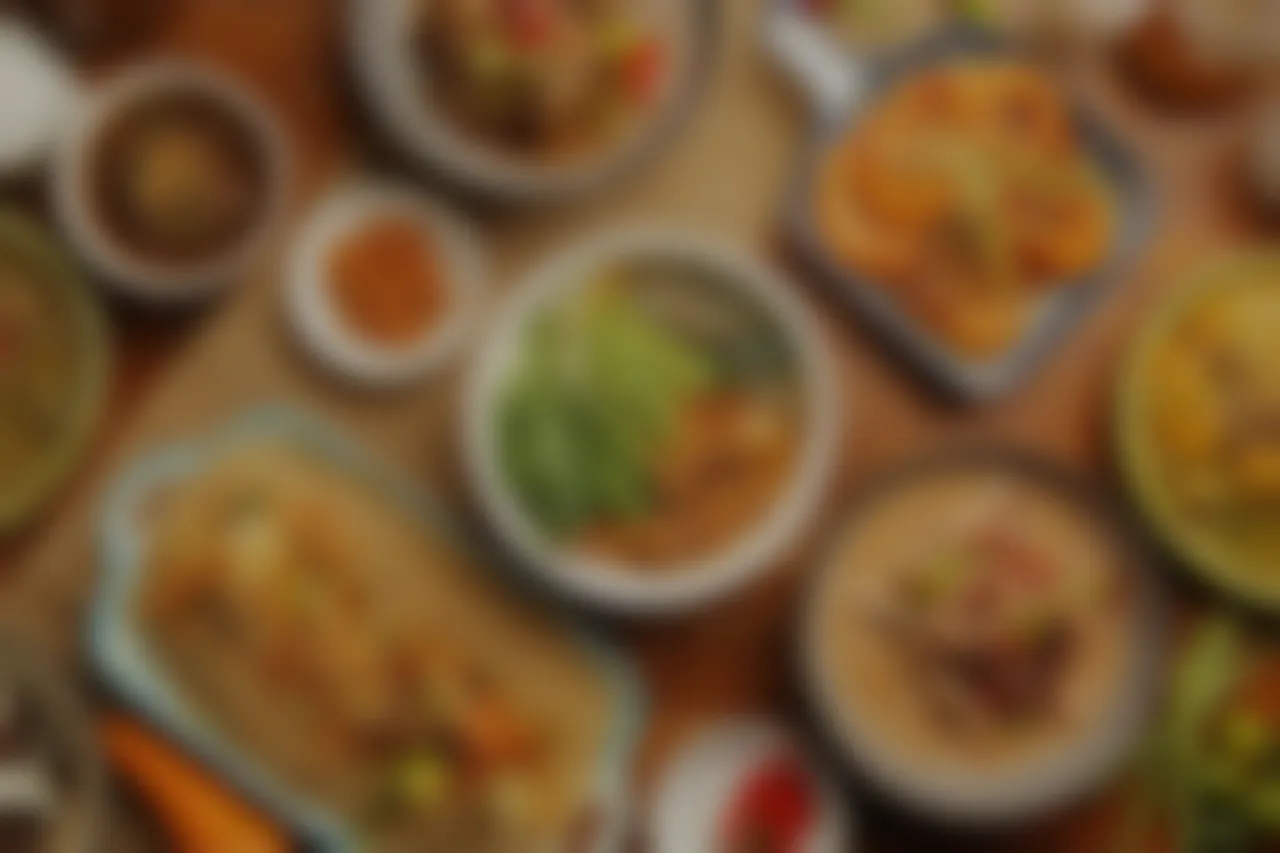
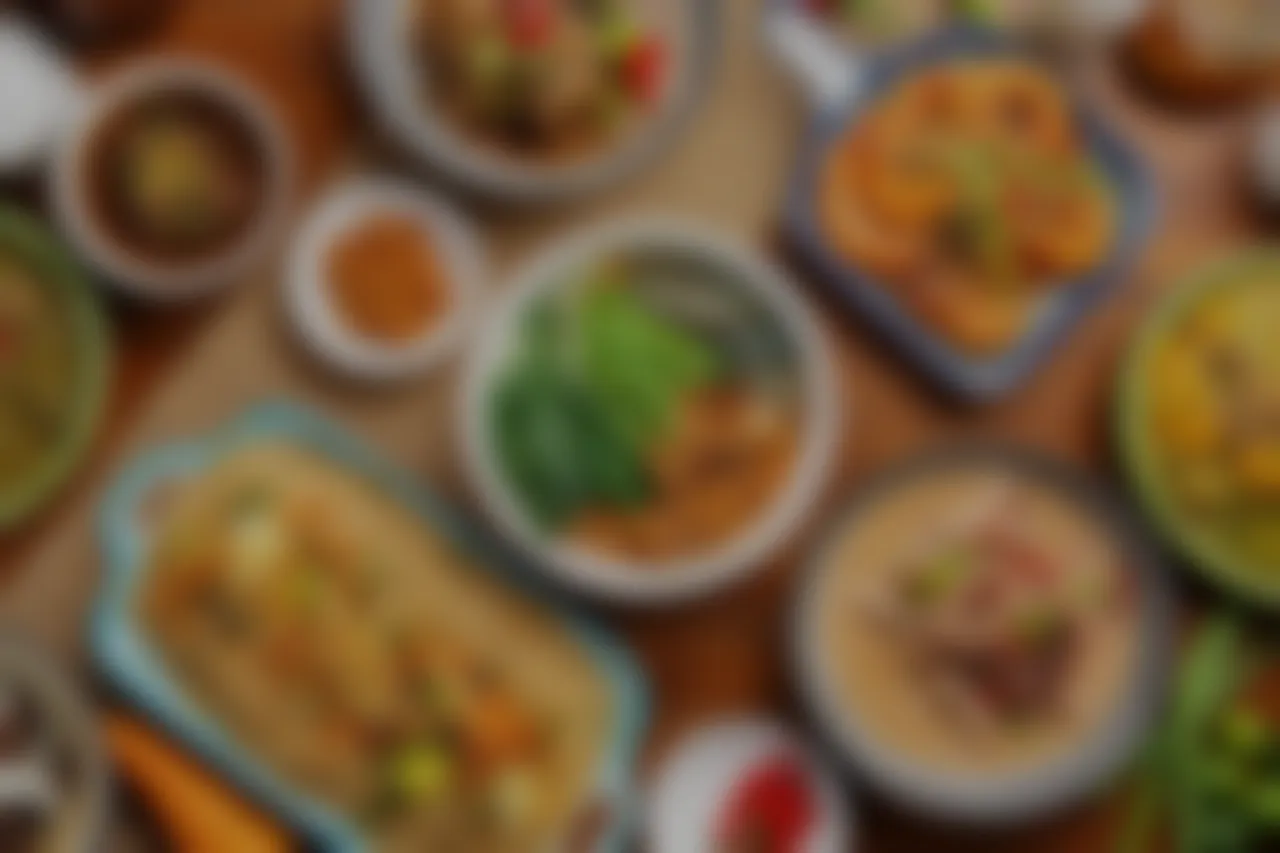
Website v3: clean title outlines, maps, real mandalas, sharper hero
- Title outline is now a ring of text-shadows. -webkit-text-stroke traced
  the variable font's overlapping contours, drawing lines inside letters
  like the Y.
- Nav dropdown items no longer get the gold "active" underline.
- Hero uses the 1536px food spread (upscaled to 2560 with a light
  sharpen, faint paisley baked in); the Restaurant page shows the same
  photo instead of the emoji tile.
- Beige OpenStreetMap view with a pin on the Restaurant page ("Come
  visit") and as the wide panel in Our place. Tiles are plain <img>s laid
  out by tpn-home.js, no map library; the pin follows coordinates in the
  site's map link when it has them. CSP img-src gains
  https://tile.openstreetmap.org for the tiles.
- The drawn mandalas are replaced by two supplied gold mandalas, used
  only as faint, slowly turning background elements.

diff --git a/tpn-site-v3.css b/tpn-site-v3.css
@@ -52,6 +52,9 @@ body::after { display: none; }                               /* old mesh glow */
 #mainNav .nav-links a, #mainNav .nav-group > button { font-size: 14px; text-transform: none; letter-spacing: 0; color: var(--v3-ink-2); font-family: var(--v3-ui); }
 #mainNav .nav-links a.active, #mainNav .nav-links a:hover { color: var(--v3-ink); }
 #mainNav .nav-links a.active::after { background: var(--v3-saffron); bottom: -6px; }
+#mainNav .nav-drop a::after { display: none !important; }
+#mainNav .nav-drop a { border: 0 !important; box-shadow: none !important; }
+#mainNav .nav-drop a + a { margin-top: 2px; }
 #mainNav .cart-btn { border-radius: 999px; background: var(--v3-card); border-color: var(--v3-hair); font-weight: 600; padding: 7px 7px 7px 14px; }
 #mainNav .cart-count { background: var(--v3-accent); border-radius: 999px; min-width: 22px; height: 22px; display: inline-grid; place-items: center; }
 #mainNav .nav-lang { display: inline-flex; gap: 2px; padding: 3px; border-radius: 999px; background: var(--v3-paper-2); box-shadow: inset 0 0 0 1px var(--v3-hair); }
@@ -81,8 +84,18 @@ body::after { display: none; }                               /* old mesh glow */
 .v3-bleed .t { display: block; font-family: var(--v3-display); font-weight: 900; font-variation-settings: "SOFT" 100, "WONK" 0, "opsz" 144;
   line-height: 1.06; letter-spacing: .03em; word-spacing: .12em; white-space: nowrap; color: var(--v3-saffron); }
 .v3-bleed .t i { font-style: italic; font-weight: 800; letter-spacing: .035em; }
-.v3-bleed .solid .t { -webkit-text-stroke: var(--stroke, 2.5px) var(--v3-cocoa); paint-order: stroke fill;
-  text-shadow: 0 .02em 0 var(--v3-cocoa), 0 .1em .3em rgba(58,29,16,.14); }
+.v3-bleed { --s: var(--stroke, 2.5px); --c: var(--v3-cocoa); }
+/* outline = a 16-step ring of hard shadows (text-stroke drew the variable
+   font's overlapping contours inside the letters) */
+.v3-bleed .solid .t { text-shadow:
+  var(--s) 0 0 var(--c), calc(var(--s) * -1) 0 0 var(--c), 0 var(--s) 0 var(--c), 0 calc(var(--s) * -1) 0 var(--c),
+  calc(var(--s) * .707) calc(var(--s) * .707) 0 var(--c), calc(var(--s) * -.707) calc(var(--s) * .707) 0 var(--c),
+  calc(var(--s) * .707) calc(var(--s) * -.707) 0 var(--c), calc(var(--s) * -.707) calc(var(--s) * -.707) 0 var(--c),
+  calc(var(--s) * .924) calc(var(--s) * .383) 0 var(--c), calc(var(--s) * -.924) calc(var(--s) * .383) 0 var(--c),
+  calc(var(--s) * .924) calc(var(--s) * -.383) 0 var(--c), calc(var(--s) * -.924) calc(var(--s) * -.383) 0 var(--c),
+  calc(var(--s) * .383) calc(var(--s) * .924) 0 var(--c), calc(var(--s) * -.383) calc(var(--s) * .924) 0 var(--c),
+  calc(var(--s) * .383) calc(var(--s) * -.924) 0 var(--c), calc(var(--s) * -.383) calc(var(--s) * -.924) 0 var(--c),
+  0 calc(var(--s) + .03em) 0 var(--c), 0 .1em .3em rgba(58,29,16,.18); }
 .v3-bleed .engrave {
   background: url(assets/site/paisley-engrave.webp) var(--ox, 0px) var(--oy, 0px) / var(--bg-size) repeat;
   -webkit-background-clip: text; background-clip: text;
@@ -90,7 +103,7 @@ body::after { display: none; }                               /* old mesh glow */
        radial-gradient(circle at var(--h2x, -999px) var(--h2y, 0px), #000 0 var(--r2), transparent calc(var(--r2) * 1.7));
   -webkit-mask: var(--m); mask: var(--m);
 }
-.v3-bleed .engrave .t { color: transparent; -webkit-text-stroke: var(--stroke, 2.5px) var(--v3-cocoa); }
+.v3-bleed .engrave .t { color: transparent; }
 
 /* ─────────────── BUTTONS ─────────────── */
 .v3-btn { display: inline-flex; align-items: center; gap: 12px; border-radius: 999px; padding: 8px 8px 8px 22px; font: 600 15px var(--v3-ui); white-space: nowrap; cursor: pointer;
@@ -186,12 +199,45 @@ body::after { display: none; }                               /* old mesh glow */
 .v3-photo .ph svg { width: 34px; height: 34px; }
 .v3-photo:not(.empty) .ph { display: none; }
 .v3-gallery { display: grid; grid-template-columns: 1.35fr 1fr 1fr; grid-template-rows: 280px 280px; gap: 14px; }
-.v3-gallery .v3-photo:nth-child(1) { grid-row: span 2; }
-.v3-gallery .v3-photo:nth-child(4) { grid-column: span 2; }
+.v3-gallery > :nth-child(1) { grid-row: span 2; }
+.v3-gallery > :nth-child(4) { grid-column: span 2; }
 
 .v3-thanks { text-align: center; padding-block: clamp(80px, 10vw, 140px); border-top: 1px solid var(--v3-hair); }
 .v3-thanks .v3-bleed { --stroke: clamp(2px, .2vw, 3px); }
 .v3-thanks .v3-bleed .t { font-size: clamp(60px, 10.5vw, 180px); }
+
+/* background mandalas (decoration only: behind content, never clickable) */
+.v3-bgwrap { position: relative; isolation: isolate; overflow: hidden; }
+.v3-mandala { position: absolute; z-index: -1; pointer-events: none; opacity: var(--mo, .14); width: var(--mw, 620px); aspect-ratio: 1; }
+.v3-mandala img { width: 100%; height: 100%; display: block; will-change: transform; }
+.v3-hero .v3-mandala { inset: 0; margin: auto; --mw: min(108vh, 980px, 140vw); --mo: .2; }
+.v3-best .v3-mandala { right: -240px; top: -80px; --mo: .2; }
+#v3Place .v3-mandala { left: -280px; top: 40px; --mo: .12; }
+.v3-thanks .v3-mandala { inset: 0; margin: auto; --mw: min(70vw, 760px); --mo: .16; }
+#page-menu { position: relative; overflow-x: clip; }
+#page-menu > .v3-mandala { right: -220px; top: 40px; --mo: .12; z-index: 0; }
+#page-menu > :not(.v3-mandala) { position: relative; z-index: 1; }
+
+/* map: OpenStreetMap tiles laid out by tpn-home.js, warmed to beige and darkened a touch */
+.v3-map { position: relative; overflow: hidden; isolation: isolate; border-radius: 22px; min-height: 220px; background: #e9dcc4; cursor: pointer; }
+.v3-map .tiles { position: absolute; inset: 0; filter: grayscale(.35) sepia(.6) saturate(.7) brightness(.88) contrast(.92) hue-rotate(-8deg); }
+.v3-map .tiles img { position: absolute; width: 256px; height: 256px; max-width: none; user-select: none; -webkit-user-drag: none; }
+.v3-map::after { content: ""; position: absolute; inset: 0; pointer-events: none; z-index: 1;
+  background: radial-gradient(ellipse 80% 75% at 50% 45%, transparent 45%, rgba(46,20,8,.4) 100%); box-shadow: inset 0 0 60px 6px rgba(46,20,8,.22); }
+.v3-map .pin { position: absolute; left: 50%; top: 50%; z-index: 2; width: 38px; height: 50px; transform: translate(-50%, -100%); color: var(--v3-accent); filter: drop-shadow(0 6px 8px rgba(46,20,8,.4)); }
+.v3-map .pin svg { width: 100%; height: 100%; display: block; }
+.v3-map .pin::after { content: ""; position: absolute; left: 50%; bottom: -6px; width: 18px; height: 8px; margin-left: -9px; border-radius: 50%; background: rgba(163,50,26,.35); animation: v3ping 2.2s var(--v3-ease) infinite; }
+@keyframes v3ping { 0% { transform: scale(.6); opacity: .9; } 100% { transform: scale(3.2); opacity: 0; } }
+.v3-map .card { position: absolute; z-index: 3; left: 16px; bottom: 16px; right: 16px; max-width: 380px; display: grid; gap: 4px; padding: 14px 16px; border-radius: 16px;
+  background: rgba(255,253,248,.94); box-shadow: 0 0 0 1px var(--v3-hair), var(--v3-shadow); text-align: left; }
+.v3-map .card b { font-family: var(--v3-display); font-size: 18px; font-variation-settings: "SOFT" 100; color: var(--v3-ink); }
+.v3-map .card span { font-size: 13px; color: var(--v3-ink-2); line-height: 1.45; }
+.v3-map .card a { font-size: 13px; font-weight: 600; color: var(--v3-accent); text-decoration: none; margin-top: 4px; }
+.v3-map .attr { position: absolute; z-index: 3; right: 8px; top: 8px; font-size: 10px; padding: 2px 6px; border-radius: 6px; background: rgba(255,253,248,.8); color: var(--v3-ink-2); }
+.v3-map .attr a { color: inherit; }
+.v3-locate .v3-map { min-height: 420px; }
+#page-restaurant .rest-feature-img.v3-photo { font-size: 0; min-height: 440px; border-radius: 28px; }
+#page-restaurant .rest-feature-img .rest-feature-badge { position: absolute; z-index: 3; top: 18px; left: 18px; font-size: 11px; }
 
 /* reveal */
 .v3-reveal { opacity: 0; transform: translateY(24px); transition: opacity .9s var(--v3-ease), transform .9s var(--v3-ease); transition-delay: calc(var(--i, 0) * 60ms); }
@@ -240,14 +286,16 @@ footer .footer-pay li { font-size: 12px; padding: 5px 10px; border-radius: 999px
 @media (max-width: 900px) {
   #page-menu .menu-controls { grid-template-columns: 1fr; }
   .v3-gallery { grid-template-columns: 1fr 1fr; grid-template-rows: 300px 220px 220px; }
-  .v3-gallery .v3-photo:nth-child(1) { grid-column: span 2; grid-row: auto; }
-  .v3-gallery .v3-photo:nth-child(4) { grid-column: span 2; }
+  .v3-gallery > :nth-child(1) { grid-column: span 2; grid-row: auto; }
+  .v3-gallery > :nth-child(4) { grid-column: span 2; }
 }
 @media (max-width: 600px) {
   .v3-bento { grid-template-columns: 1fr; }
   .v3-bento > :first-child { grid-column: auto; }
   .v3-gallery { grid-template-columns: 1fr; grid-template-rows: none; grid-auto-rows: 240px; }
-  .v3-gallery .v3-photo:nth-child(n) { grid-column: auto; grid-row: auto; }
+  .v3-gallery > :nth-child(n) { grid-column: auto; grid-row: auto; }
+  .v3-gallery > .v3-map { grid-row: span 2; }               /* room for the pin above the address card */
+  .v3-best .v3-mandala, #v3Place .v3-mandala, #page-menu > .v3-mandala { --mw: 380px; }
   .v3-hero .v3-bleed .t { font-size: 10.6vw; }
   .v3-best .v3-bleed .t, .v3-thanks .v3-bleed .t { font-size: clamp(40px, 13vw, 60px); white-space: normal; }
   .v3-best .v3-bleed, .v3-thanks .v3-bleed { max-width: 100%; }

diff --git a/tpn-home.js b/tpn-home.js
@@ -55,6 +55,12 @@
     'v3.f.cash':        { en: 'Cash', tl: 'Cash' },
     'v3.f.cards':       { en: 'Cards', tl: 'Card' },
     'v3.f.parking':     { en: 'Free parking', tl: 'Libreng parking' },
+    'v3.map.title':     { en: 'Find us', tl: 'Hanapin kami' },
+    'v3.map.open':      { en: 'Open in Maps ↗', tl: 'Buksan sa Maps ↗' },
+    'v3.map.label':     { en: 'Map showing Tyo Paeng Nyo in Las Piñas', tl: 'Mapa ng Tyo Paeng Nyo sa Las Piñas' },
+    'v3.map.near':      { en: 'Facing Shell, near the Robinsons Las Piñas exit', tl: 'Tapat ng Shell, malapit sa labasan ng Robinsons Las Piñas' },
+    'v3.locate.eyebrow':{ en: 'Where to find us', tl: 'Saan kami matatagpuan' },
+    'v3.locate.title':  { en: 'Come <i>visit</i>', tl: 'Dumalaw <i>kayo</i>' },
   };
   const tr = (k, vars) => {
     const row = (typeof TPN_STRINGS === 'object' && TPN_STRINGS[k]) || STR[k];
@@ -176,7 +182,7 @@
 
   /* ---------- photo panels ---------- */
   function renderPhotos() {
-    document.querySelectorAll('.v3-photo').forEach(f => {
+    document.querySelectorAll('.v3-photo[data-ph]').forEach(f => {
       const src = f.dataset.src;
       f.classList.toggle('empty', !src);
       if (src) f.style.setProperty('--img', `url('${src.replace(/'/g, '%27')}')`);
@@ -185,6 +191,42 @@
       ph.innerHTML = `${svg('cam')}<span>${esc(tr(f.dataset.ph))}</span>`;
     });
   }
+
+  /* ---------- map: OpenStreetMap tiles, laid out by hand ----------
+     No map library: the tiles around the pin are placed as plain <img>s, so
+     the map costs a handful of image requests and no script.
+     The pin is approximate — across Alabang–Zapote Rd (Real St.) from the
+     Shell station by Robinsons Las Piñas. To move it, change MAP below, or put
+     a Google Maps link with "@lat,lng" or "q=lat,lng" in Website → contact
+     map link and the pin follows it. */
+  const MAP = { lat: 14.44262, lon: 120.99757, zoom: 17 };
+  function mapPoint() {
+    const href = document.querySelector('[data-site="contact.map_url"]')?.getAttribute('href') || '';
+    const m = href.match(/@(-?\d+\.\d+),(-?\d+\.\d+)/) || href.match(/[?&](?:q|ll)=(-?\d+\.\d+),\s*(-?\d+\.\d+)/);
+    return m ? { lat: +m[1], lon: +m[2], href } : { lat: MAP.lat, lon: MAP.lon, href: href || `https://www.google.com/maps/search/?api=1&query=${MAP.lat},${MAP.lon}` };
+  }
+  const pinSvg = '<svg viewBox="0 0 38 50" aria-hidden="true"><path d="M19 1C9 1 1 9 1 19c0 13 18 30 18 30s18-17 18-30C37 9 29 1 19 1z" fill="currentColor" stroke="#fffdf8" stroke-width="2"/><circle cx="19" cy="19" r="6.5" fill="#fffdf8"/></svg>';
+  function drawMap(el) {
+    const w = el.clientWidth, h = el.clientHeight;
+    if (!w || !h) return;                                  // page hidden; drawn again when shown
+    const { lat, lon, href } = mapPoint(), z = +el.dataset.zoom || MAP.zoom, n = 2 ** z;
+    const r = lat * Math.PI / 180;
+    const px = (lon + 180) / 360 * n * 256, py = (1 - Math.log(Math.tan(r) + 1 / Math.cos(r)) / Math.PI) / 2 * n * 256;
+    const left = px - w / 2, top = py - h * .45;           // pin sits a little above centre, clear of the card
+    let tiles = '';
+    for (let x = Math.floor(left / 256); x <= Math.floor((left + w) / 256); x++)
+      for (let y = Math.floor(top / 256); y <= Math.floor((top + h) / 256); y++)
+        tiles += `<img alt="" loading="lazy" decoding="async" src="https://tile.openstreetmap.org/${z}/${x}/${y}.png" style="left:${Math.round(x * 256 - left)}px;top:${Math.round(y * 256 - top)}px">`;
+    const addr = document.querySelector('[data-site="contact.address"]')?.textContent.trim() || '';
+    el.setAttribute('role', 'img'); el.setAttribute('aria-label', tr('v3.map.label'));
+    el.onclick = e => { if (!e.target.closest('a')) window.open(href, '_blank', 'noopener'); };
+    el.innerHTML = `<div class="tiles">${tiles}</div>
+      <div class="pin" style="top:${Math.round(h * .45)}px">${pinSvg}</div>
+      <div class="card"><b>${esc(tr('v3.map.title'))}</b><span>${esc(addr)}<br>${esc(tr('v3.map.near'))}</span>
+        <a href="${esc(href)}" target="_blank" rel="noopener">${esc(tr('v3.map.open'))}</a></div>
+      <div class="attr">© <a href="https://www.openstreetmap.org/copyright" target="_blank" rel="noopener">OpenStreetMap</a> contributors</div>`;
+  }
+  const drawMaps = () => document.querySelectorAll('.v3-map').forEach(drawMap);
 
   /* ---------- bleed titles ---------- */
   const bleeds = [];
@@ -284,7 +326,7 @@
 
   /* ---------- language: everything this file draws ---------- */
   function relang() {
-    buildBleeds(); renderBestsellers(); renderPhotos();
+    buildBleeds(); renderBestsellers(); renderPhotos(); drawMaps();
     const logo = document.querySelector('.nav-badge'); if (logo) logo.alt = tr('v3.logoAlt');
   }
 
@@ -292,7 +334,7 @@
     card, renderMenuGrid, emptySearch, renderBestsellers, relang, afterRender,
     pop(btn) { btn.classList.remove('pop'); void btn.offsetWidth; btn.classList.add('pop'); kick += 3; },
     // called by navigate(): titles measure 0×0 while their page is hidden
-    shown() { requestAnimationFrame(() => { alignBleeds(); lastY = -1; }); },
+    shown() { requestAnimationFrame(() => { alignBleeds(); drawMaps(); lastY = -1; }); },
     scrollToBest() { document.getElementById('v3Best')?.scrollIntoView({ behavior: 'smooth', block: 'start' }); },
   };
 
@@ -303,7 +345,9 @@
     relang();
     afterRender(document);
     heroScroll(scrollY);
-    addEventListener('resize', alignBleeds, { passive: true });
+    let rz; addEventListener('resize', () => { alignBleeds(); clearTimeout(rz); rz = setTimeout(drawMaps, 150); }, { passive: true });
+    // the address and map link can arrive from site settings after load
+    setTimeout(drawMaps, 1500);
     if (document.fonts) document.fonts.ready.then(alignBleeds);
     requestAnimationFrame(frame);
   });

diff --git a/index.html b/index.html
@@ -2,7 +2,7 @@
 <html lang="en">
 <head>
 <meta charset="UTF-8">
-<meta http-equiv="Content-Security-Policy" content="default-src 'self'; script-src 'self' 'unsafe-inline' https://cdn.jsdelivr.net; style-src 'self' 'unsafe-inline' https://fonts.googleapis.com; font-src 'self' https://fonts.gstatic.com data:; img-src 'self' data: blob: https://xjlqfpnzobfqxetgkkai.supabase.co https://api.qrserver.com; connect-src 'self' https://xjlqfpnzobfqxetgkkai.supabase.co wss://xjlqfpnzobfqxetgkkai.supabase.co; media-src 'self' data: blob:; worker-src 'self' blob:; object-src 'none'; base-uri 'self'; form-action 'self'">
+<meta http-equiv="Content-Security-Policy" content="default-src 'self'; script-src 'self' 'unsafe-inline' https://cdn.jsdelivr.net; style-src 'self' 'unsafe-inline' https://fonts.googleapis.com; font-src 'self' https://fonts.gstatic.com data:; img-src 'self' data: blob: https://xjlqfpnzobfqxetgkkai.supabase.co https://api.qrserver.com https://tile.openstreetmap.org; connect-src 'self' https://xjlqfpnzobfqxetgkkai.supabase.co wss://xjlqfpnzobfqxetgkkai.supabase.co; media-src 'self' data: blob:; worker-src 'self' blob:; object-src 'none'; base-uri 'self'; form-action 'self'">
 <meta name="referrer" content="strict-origin-when-cross-origin">
 <script>
   // GitHub Pages cannot send X-Frame-Options, so refuse to run inside
@@ -122,6 +122,7 @@
     <div class="photo-blur" aria-hidden="true"></div>
     <div class="wash"></div>
     <div class="vig"></div>
+    <div class="v3-mandala" aria-hidden="true"><img data-spin="3" src="assets/site/mandala-b.webp" alt="" decoding="async"></div>
     <div class="inner">
       <h1 class="v3-sr">Tyo Paeng Nyo</h1>
       <div class="v3-bleed" aria-hidden="true" data-lines="Tyo Paeng Nyo"></div>
@@ -135,6 +136,7 @@
   <!-- Bestsellers: live from the menu (is_featured), dishes with a photo first -->
   <section class="v3-best v3-tex v3-section" id="v3Best">
     <div class="v3-pat"></div>
+    <div class="v3-mandala" aria-hidden="true"><img data-spin="-4" src="assets/site/mandala-a.webp" alt="" decoding="async"></div>
     <div class="v3-wrap">
       <div class="v3-head">
         <span class="v3-eyebrow" data-i18n="v3.best.eyebrow">Everyone’s favorites</span><br>
@@ -152,7 +154,8 @@
   </section>
 
   <!-- Our place: photo panels. To fill one, set data-src="assets/site/photos/your-file.jpg" -->
-  <section class="v3-section" id="v3Place">
+  <section class="v3-section v3-bgwrap" id="v3Place">
+    <div class="v3-mandala" aria-hidden="true"><img data-spin="4" src="assets/site/mandala-b.webp" alt="" decoding="async"></div>
     <div class="v3-wrap">
       <div class="v3-head">
         <span class="v3-eyebrow" data-i18n="v3.place.eyebrow">Visit us</span>
@@ -162,19 +165,21 @@
         <figure class="v3-photo v3-reveal" data-src="" data-ph="v3.ph.interior"><div class="img"></div><figcaption data-i18n="v3.cap.dining">Dining room</figcaption></figure>
         <figure class="v3-photo v3-reveal" style="--i:1" data-src="" data-ph="v3.ph.food"><div class="img"></div><figcaption data-i18n="v3.cap.food">Fresh from the kitchen</figcaption></figure>
         <figure class="v3-photo v3-reveal" style="--i:2" data-src="" data-ph="v3.ph.kitchen"><div class="img"></div><figcaption data-i18n="v3.cap.kitchen">The kitchen</figcaption></figure>
-        <figure class="v3-photo v3-reveal" style="--i:3" data-src="" data-ph="v3.ph.front"><div class="img"></div><figcaption data-i18n="v3.cap.front">Our storefront</figcaption></figure>
+        <div class="v3-map v3-reveal" style="--i:3" data-zoom="16"></div>
       </div>
     </div>
   </section>
 
   <section class="v3-thanks v3-tex">
     <div class="v3-pat"></div>
+    <div class="v3-mandala" aria-hidden="true"><img data-spin="3" src="assets/site/mandala-a.webp" alt="" decoding="async"></div>
     <div class="v3-bleed" aria-hidden="true" data-lines="Salamat <i>po!</i>"></div>
   </section>
 </div>
 
 <!-- MENU -->
 <div class="page" id="page-menu">
+  <div class="v3-mandala" aria-hidden="true"><img data-spin="-3" src="assets/site/mandala-a.webp" alt="" decoding="async"></div>
   <div class="page-header">
     <span class="v3-eyebrow" data-i18n="v3.menu.eyebrow">Order online</span>
     <h1><span data-i18n="v3.menu.titleA">Our</span> <em data-i18n="v3.menu.titleB">menu</em></h1>
@@ -196,10 +201,10 @@
   </div>
   <section class="restaurant-feature">
     <div class="rest-feature-wrap">
-      <div class="rest-feature-img">
+      <figure class="rest-feature-img v3-photo" style="--img:url('assets/site/spread.webp')">
+        <div class="img"></div>
         <span class="rest-feature-badge">Official Branch</span>
-        🍲
-      </div>
+      </figure>
       <div class="rest-feature-content">
         <h2>Las Piñas <em>City</em></h2>
         <p><strong>We've moved — just behind our old spot.</strong> Our new home on Real Street, facing Shell and near the Robinsons Las Piñas exit, has more seats and its own parking.</p>
@@ -229,6 +234,15 @@
           <button class="btn-outline" onclick="navigate('events')">Book an Event</button>
         </div>
       </div>
+    </div>
+  </section>
+  <section class="v3-section v3-locate">
+    <div class="v3-wrap">
+      <div class="v3-head">
+        <span class="v3-eyebrow" data-i18n="v3.locate.eyebrow">Where to find us</span>
+        <h2 class="v3-title" data-i18n-html="v3.locate.title">Come <i>visit</i></h2>
+      </div>
+      <div class="v3-map" data-zoom="17"></div>
     </div>
   </section>
 </div>
